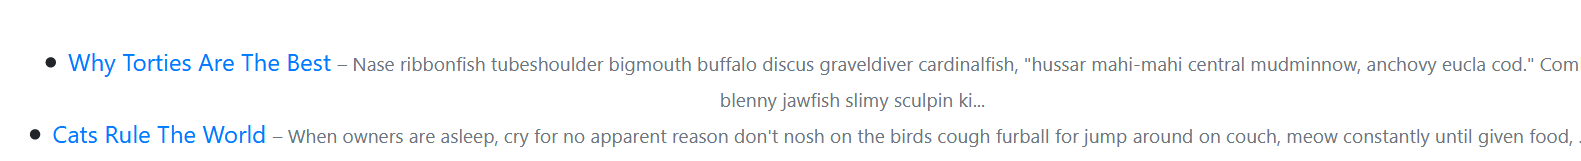
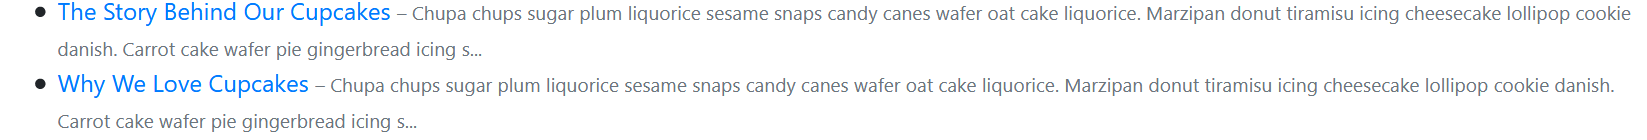
1) updated images to reflect cupcake tutorial site 2) added more content blocks pages and images

diff --git a/docs/features/blocks/contentblocks/imagegallery.rst b/docs/features/blocks/contentblocks/imagegallery.rst
@@ -1,0 +1,43 @@
+Image Gallery Block
+===================
+
+Creates and displays a collage of images from a collection. 
+
+Field Reference 
+---------------
+
+Fields and purposes:
+
+* **Collection** - Choose the image collection to display as a Gallery
+
+The default collection is ``ROOT`` which will choose all of the images on the site. You can, however, create custom 
+image collections. 
+
+How To Create A Collection
+--------------------------
+
+1. Go to **Settings > Collections**.
+
+2. Click the **Add a Collection** button on the top right-hand corner.
+
+3. Name the collection and save it.
+
+4. Go to **Images** and click on each image that you want to add to the collection.
+
+5. Choose the desired collection from the dropdown in the image's **Collection** field. 
+
+6. Save the image. 
+
+Once you have created a Collection, it will become available in the Image Gallery block. 
+
+.. figure:: img/image_gallery_block.png
+    :alt: Our collection choice for the image gallery block
+
+    Our collection choice for the image gallery block
+
+The images will display in a row. When the image is clicked on, it will become a popup image for better viewing.
+
+.. figure:: img/image_gallery_published.png
+    :alt: Our published image gallery
+
+    Our published image gallery

diff --git a/docs/features/blocks/contentblocks/modal.rst b/docs/features/blocks/contentblocks/modal.rst
@@ -1,0 +1,33 @@
+Modal Block
+===========
+
+Creates a popup box with a header, footer, and the ability to display the body as a block. 
+
+Field Reference
+---------------
+
+Fields and purposes:
+
+* **Button Title** - The text to show on the button. You can insert simple HTML
+  here as well, such as ``Learn <b>More</b>``.
+
+* **Button Style** - The appearance of the button. This is a choice loaded from
+  ``CODERED_FRONTEND_BTN_STYLE_CHOICES`` Django setting and is inserted as a
+  CSS class in the HTML.
+
+* **Button Size** - The size of button. This is a choice loaded from
+  ``CODERED_FRONTEND_BTN_SIZE_CHOICES`` Django setting and is inserted as a CSS
+  class in the HTML.
+
+* **Modal Heading** -
+
+* **Content** - Choose from other content blocks for the body of the modal.
+
+* **Modal Footer** - Choose a Simple Text footer or a button link
+
+Once it is published, website visitors can click the button to see the popup message. 
+
+.. figure:: img/cupcake_modal_sample.png
+    :alt: Our cupcake modal
+
+    Our cupcake modal as it appears on the page

diff --git a/docs/features/blocks/contentblocks/carousel.rst b/docs/features/blocks/contentblocks/carousel.rst
@@ -1,0 +1,32 @@
+Carousel Block
+==============
+
+Allows the user to create a carousel with image backgrounds and relevant blocks. 
+
+Field Reference
+---------------
+
+Fields and purposes:
+
+* **Carousel** - Choose a Carousel
+
+.. figure:: img/carousel_block.png
+    :alt: The carousel block
+
+    The carousel block
+
+If you don't have any carousels already made, you can build a carousel by clicking **Choose A Carousel** and
+clicking on "Why not **create one now**?" in the popup box. This will take you to **Snippets > Carousels** where
+you can create a carousel to add to the page. 
+
+.. figure:: img/carousel_snippet.png
+    :alt: Building a carousel in Snippets
+
+    The edit mode for building a carousel snippet
+
+Now you can select your carousel. Ours is named Cupcakes. 
+
+.. figure:: img/carousel_published.png
+    :alt: Our carousel published on the page
+
+    The carousel published on a page

diff --git a/docs/features/blocks/contentblocks/embedmedia.rst b/docs/features/blocks/contentblocks/embedmedia.rst
@@ -12,7 +12,7 @@ Fields and purposes:
 * **URL** - The URL for the external media, whether it's a tweet, Facebook post, YouTube video, etc.
 
 .. note::
-    Add an external media link like this YouTube video about a playful kitten: `<https://youtu.be/AmsAuGgg2UA>`_ .
+    Add an external media link like this YouTube video about making fancy cupcakes: `<https://youtu.be/eXkyUi5HKpM>`_ .
 
 * **Advanced Settings** - Add custom CSS classes or a CSS ID to style the embed with your custom CSS 
 
@@ -26,3 +26,7 @@ Fields and purposes:
     :alt: How it displays on the page.
 
     How the embedded media would display on the published page.
+
+.. note::
+    You can use Bootstrap utility classes like ``w-50`` on your embeds. The size of the video
+    also changes depending on whether it's in a full-width column or a half-column, etc. 

diff --git a/docs/features/blocks/contentblocks/pricelist.rst b/docs/features/blocks/contentblocks/pricelist.rst
@@ -1,0 +1,26 @@
+Price List Block
+================
+
+Creates a price list with name of item and its price
+
+Field Reference
+---------------
+
+Fields and purposes:
+
+* **Heading** - The heading (or title) for the price list
+
+* **Items** - The item builder for the price list
+
+* **Image** - The image chooser for a Price List Item
+
+* **Name** - The name of the Price List Item
+
+* **Description** - The description of the Price List Item
+
+* **Price** - The price for the Price List Item as text (add currency symbols as desired)
+
+.. figure:: img/pricelist_sample.png
+    :alt: Our published price list
+
+    Our published price list

diff --git a/docs/features/blocks/contentblocks/image.rst b/docs/features/blocks/contentblocks/image.rst
@@ -1,0 +1,19 @@
+Image Block
+===========
+
+Allows the user to add and display an image. Crops the image to a 1:1 (Square) ratio
+
+Field Reference 
+---------------
+
+Fields and purposes:
+
+* **Choose an Image** - Choose an image 
+
+When you choose an image, a popup allows you to search for images that you have already uploaded, or you can uploaded
+a new image. 
+
+.. figure:: img/image_chooser_block.png
+    :alt: The image chooser for the image block
+
+    The image chooser for the image block

diff --git a/docs/features/blocks/contentblocks/index.rst b/docs/features/blocks/contentblocks/index.rst
@@ -8,13 +8,19 @@ Content blocks are the blocks for adding various types of content to your site.
 
     button
     card
+    carousel
     download
     embedmedia
     googlemap
     html
+    image
+    imagegallery
     imagelink
     latestpages
+    modal
     pagepreview
+    pricelist
+    reusablecontent
     quote
     table
     text

diff --git a/docs/features/blocks/contentblocks/quote.rst b/docs/features/blocks/contentblocks/quote.rst
@@ -20,6 +20,6 @@ Fields and purposes:
     A quote block and its settings.
 
 .. figure:: img/quote_published.png
-    :alt: A center-aligned published quote.
+    :alt: A published quote.
 
-    A center-aligned published quote.
+    A published quote.

diff --git a/docs/features/blocks/contentblocks/googlemap.rst b/docs/features/blocks/contentblocks/googlemap.rst
@@ -26,5 +26,8 @@ Fields and purposes:
 
     A Google Map block with its Settings
 
+.. note::
+    Our cupcake shop does not exist so searching for it in Google Maps won't actually find it. This was just for
+    illustrative purposes. 
 
 

diff --git a/docs/features/blocks/contentblocks/reusablecontent.rst b/docs/features/blocks/contentblocks/reusablecontent.rst
@@ -1,0 +1,4 @@
+Reusable Content Block
+======================
+
+coming soon
